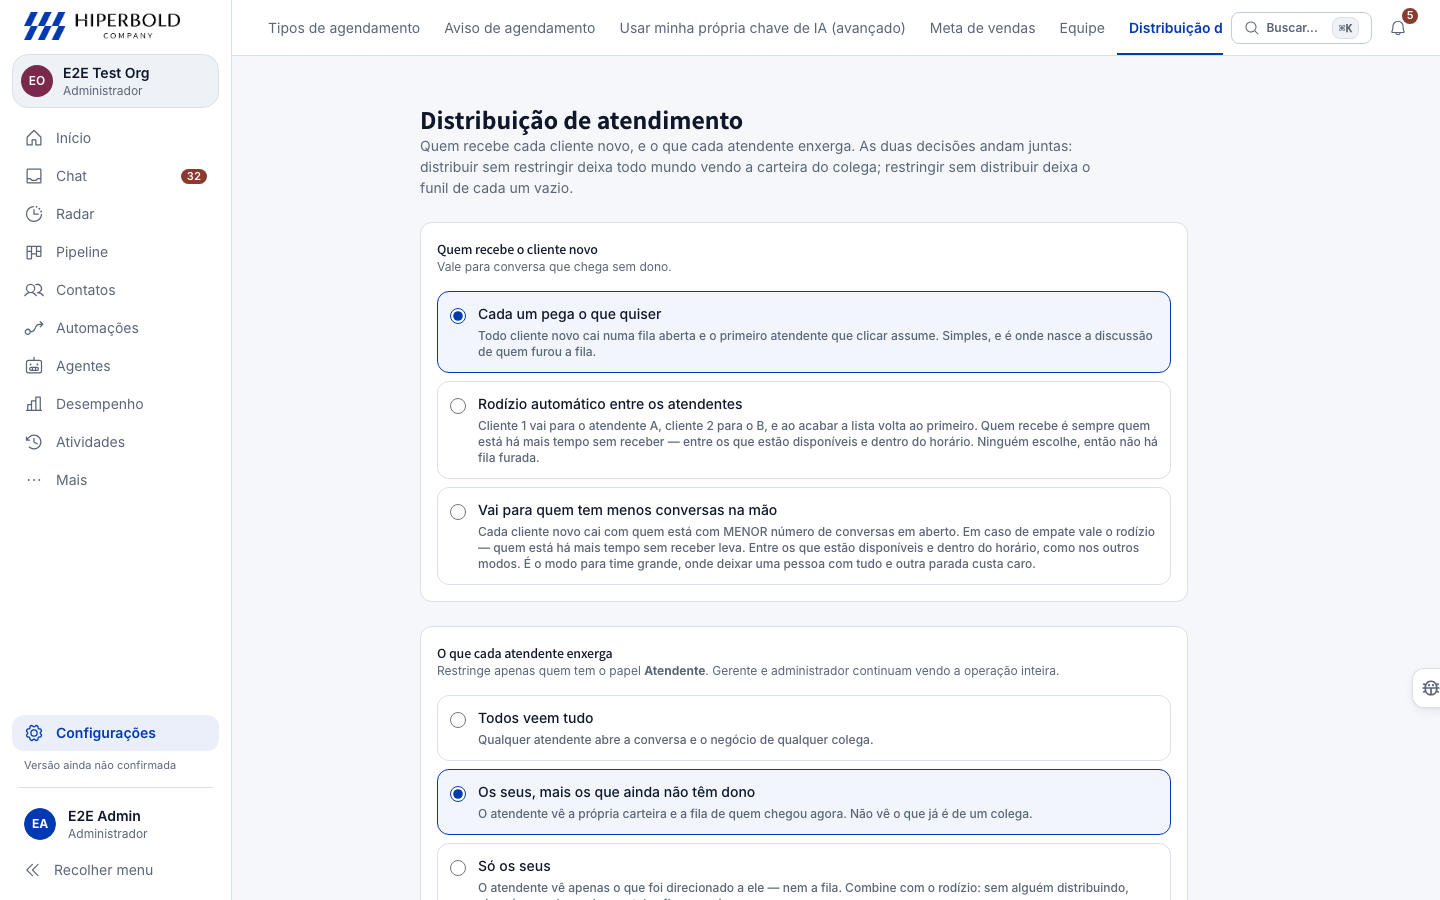
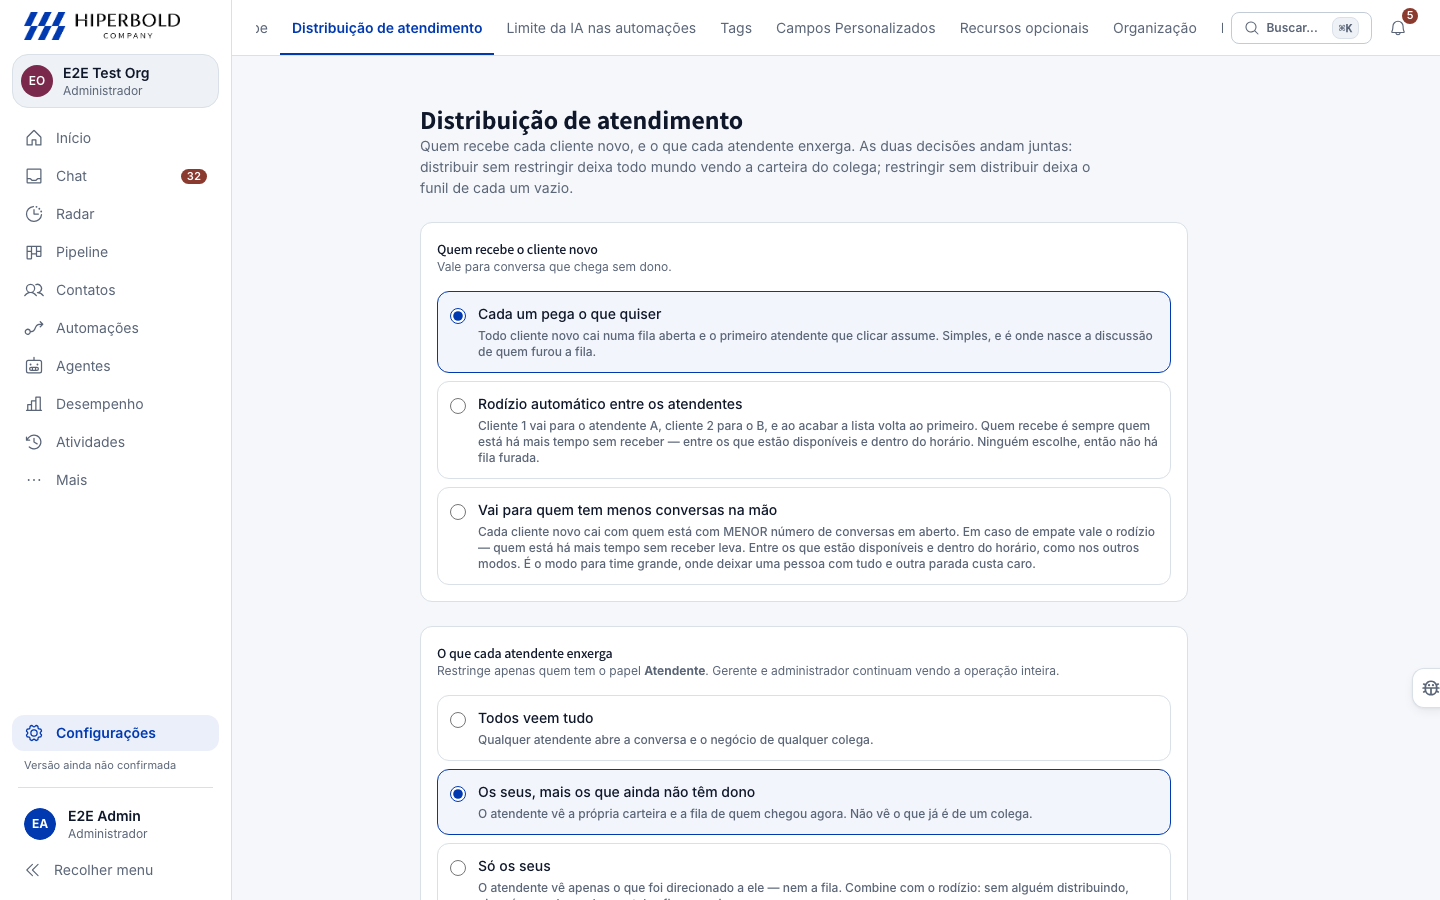
evidence(redesign): E4-configuracoes recapturado no build integrado final

Changed region(s): [[0.1875, 0.0, 0.8438, 0.0622]]

diff --git a/evidence/redesign/README.md b/evidence/redesign/README.md
@@ -926,10 +926,6 @@ Arquivo gerado por `node evidence/redesign/gerar-indice.mjs`. Não edite à mão
 - `evidence/redesign/E4-configuracoes/antes/settings_atendimento-en-desktop.png`
 - `evidence/redesign/E4-configuracoes/antes/settings_atendimento-pt-BR-celular.png`
 - `evidence/redesign/E4-configuracoes/antes/settings_atendimento-pt-BR-desktop.png`
-- `evidence/redesign/E4-configuracoes/antes/settings_conversoes-en-celular.png`
-- `evidence/redesign/E4-configuracoes/antes/settings_conversoes-en-desktop.png`
-- `evidence/redesign/E4-configuracoes/antes/settings_conversoes-pt-BR-celular.png`
-- `evidence/redesign/E4-configuracoes/antes/settings_conversoes-pt-BR-desktop.png`
 - `evidence/redesign/E4-configuracoes/antes/settings_plano-en-celular.png`
 - `evidence/redesign/E4-configuracoes/antes/settings_plano-en-desktop.png`
 - `evidence/redesign/E4-configuracoes/antes/settings_plano-pt-BR-celular.png`
@@ -961,10 +957,6 @@ Arquivo gerado por `node evidence/redesign/gerar-indice.mjs`. Não edite à mão
 - `evidence/redesign/E4-configuracoes/depois-desligada/settings_atendimento-en-desktop.png`
 - `evidence/redesign/E4-configuracoes/depois-desligada/settings_atendimento-pt-BR-celular.png`
 - `evidence/redesign/E4-configuracoes/depois-desligada/settings_atendimento-pt-BR-desktop.png`
-- `evidence/redesign/E4-configuracoes/depois-desligada/settings_conversoes-en-celular.png`
-- `evidence/redesign/E4-configuracoes/depois-desligada/settings_conversoes-en-desktop.png`
-- `evidence/redesign/E4-configuracoes/depois-desligada/settings_conversoes-pt-BR-celular.png`
-- `evidence/redesign/E4-configuracoes/depois-desligada/settings_conversoes-pt-BR-desktop.png`
 - `evidence/redesign/E4-configuracoes/depois-desligada/settings_plano-en-celular.png`
 - `evidence/redesign/E4-configuracoes/depois-desligada/settings_plano-en-desktop.png`
 - `evidence/redesign/E4-configuracoes/depois-desligada/settings_plano-pt-BR-celular.png`
@@ -996,10 +988,6 @@ Arquivo gerado por `node evidence/redesign/gerar-indice.mjs`. Não edite à mão
 - `evidence/redesign/E4-configuracoes/depois-ligada/settings_atendimento-en-desktop.png`
 - `evidence/redesign/E4-configuracoes/depois-ligada/settings_atendimento-pt-BR-celular.png`
 - `evidence/redesign/E4-configuracoes/depois-ligada/settings_atendimento-pt-BR-desktop.png`
-- `evidence/redesign/E4-configuracoes/depois-ligada/settings_conversoes-en-celular.png`
-- `evidence/redesign/E4-configuracoes/depois-ligada/settings_conversoes-en-desktop.png`
-- `evidence/redesign/E4-configuracoes/depois-ligada/settings_conversoes-pt-BR-celular.png`
-- `evidence/redesign/E4-configuracoes/depois-ligada/settings_conversoes-pt-BR-desktop.png`
 - `evidence/redesign/E4-configuracoes/depois-ligada/settings_plano-en-celular.png`
 - `evidence/redesign/E4-configuracoes/depois-ligada/settings_plano-en-desktop.png`
 - `evidence/redesign/E4-configuracoes/depois-ligada/settings_plano-pt-BR-celular.png`
